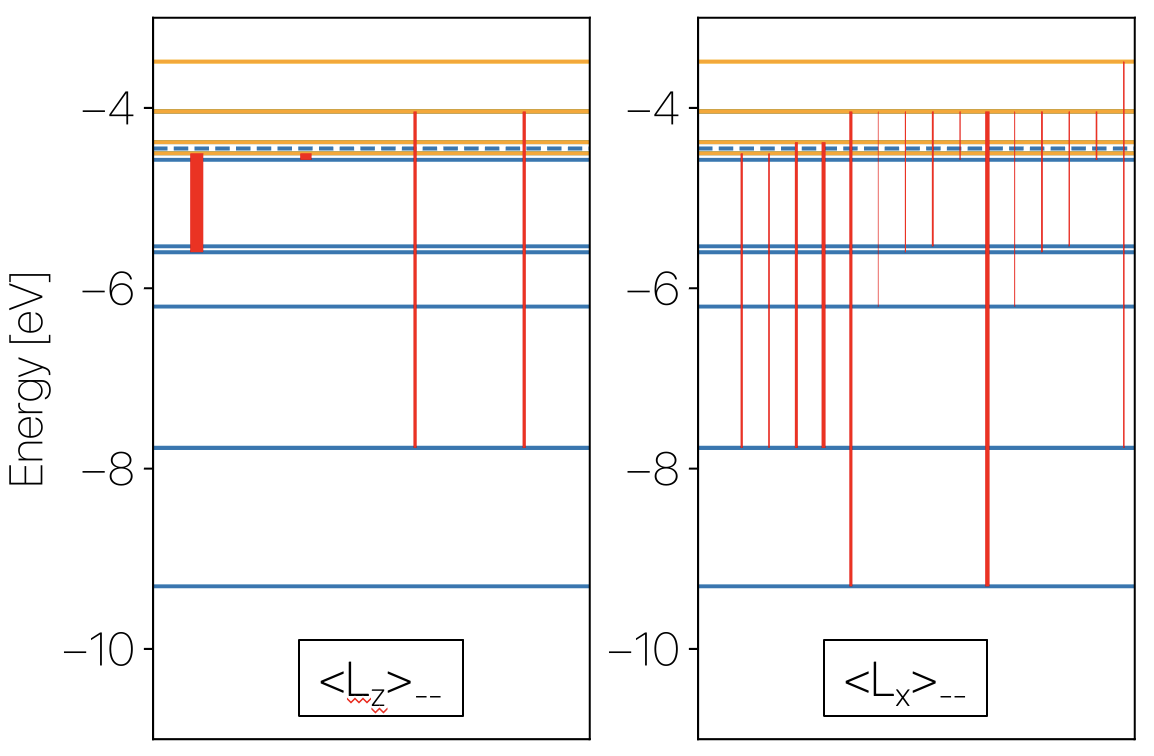
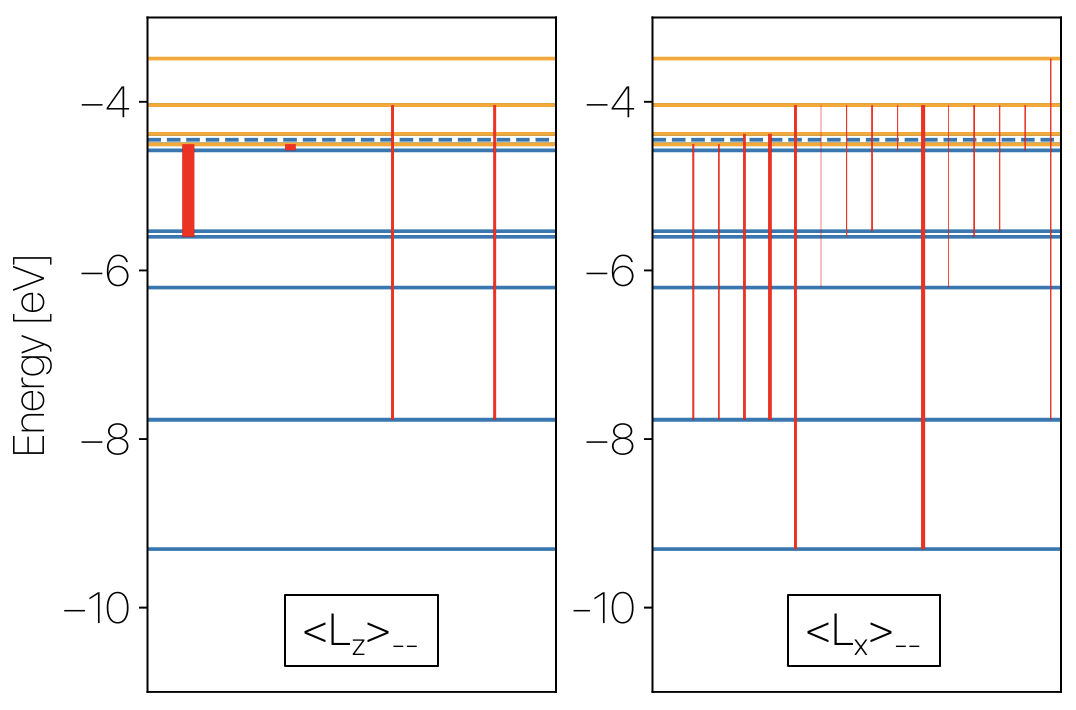
update 2023-01-12-MAE_decompose

Changed region(s): [[0.552, 0.031, 1.0, 0.9915], [0.0, 0.0, 0.5214, 0.9915], [0.6134, 0.0, 0.9814, 0.031]]

diff --git a/_posts/2023-01-12-MAE_decompose.md b/_posts/2023-01-12-MAE_decompose.md
@@ -72,7 +72,9 @@ where:
 $$
 \begin{aligned}
 E_{--} = - \lambda^2 \sum_{o^-,u^-} \frac{\braket{o^-|\hat \sigma \cdot \hat L|u^-}}{\epsilon_{u^-}-\epsilon_{o^-}}\\
+E_{++} = - \lambda^2 \sum_{o^+,u^+} \frac{\braket{o^+|\hat \sigma \cdot \hat L|u^+}}{\epsilon_{u^+}-\epsilon_{o^+}}\\
 E_{+-} = - \lambda^2 \sum_{o^+,u^-} \frac{\braket{o^+|\hat \sigma \cdot \hat L|u^-}}{\epsilon_{u^-}-\epsilon_{o^+}}\\
+E_{-+} = - \lambda^2 \sum_{o^-,u^+} \frac{\braket{o^-|\hat \sigma \cdot \hat L|u^+}}{\epsilon_{u^+}-\epsilon_{o^-}}\\
 \end{aligned}
 $$
 
@@ -81,7 +83,7 @@ Depending on the magnetization axis, assuming that there are no mixing in the or
 - magnetization along x axis: $(1, -1)$
 - magnetization along z axis: $(0, 1)$
 
-Inserting these into $\braket{o\vert\hat{\sigma}\hat{L}\vert u}$, we have:
+For example, inserting these into $\braket{o^-\vert\hat{\sigma}\hat{L}\vert u^-}$, we have:
 
 $$
 \begin{aligned}
@@ -102,13 +104,13 @@ $$
 \mathrm{MAE}_{+-} = E_{+-}^x - E_{+-}^z = - \lambda^2 \sum_{o^+,u^-} \frac{|\braket{o^+|L_z|u^-}|^2-|\braket{o^+|L_x|u^-}|^2}{\epsilon_{u^-}-\epsilon_{o^+}}
 $$
 
-Combining all of these equations together we get the total MAE as:
+Combining up-up, up-down, down-down and down-up temrs together, we get the total MAE as:
 
 $$
 \mathrm{MAE} = \lambda^2 (2\delta_{\alpha,\beta}-1) \sum_{o^{\alpha},u^{\beta}} \frac{|\braket{o^{\alpha}|L_z|u^{\beta}}|^2-|\braket{o^{\alpha}|L_x|u^{\beta}}|^2}{\epsilon_{u^{\beta}}-\epsilon_{o^{\alpha}}}
 $$
 
-Note that, up to now, we are trating $\lambda$ as a parameter. However, in reaility, it needs to be calculated as $\braket{\phi\vert\lambda(r)\vert\phi}$ where $\phi$ is the radial part of the atomic wavefunctions, which is different for different $l$ quantum numbers. In VASP, this is calculated within the PAW sphere using the AE partial waves in `relativistic.F`. If we really want to be percise, we can extract this info from VASP.
+Note that, up to now, we are trating $\lambda$ as a parameter. However, in reaility, it needs to be calculated as $\braket{\phi\vert\lambda(r)\vert\phi}$ where $\phi$ is the radial part of the atomic wavefunctions, which is different for different $l$ quantum numbers. In VASP, this is calculated within the PAW sphere using the all-electron partial waves in `relativistic.F`. If we really want to be percise, we can extract the exact values from VASP.
 
 ---
 
@@ -116,7 +118,7 @@ Using [:link: wanSOC](https://github.com/Chengcheng-Xiao/wanSOC) package, I've r
 
 ![]({{site.baseurl}}/assets/img/post_img/2023-01-12-img1.png){:height="100%" width="100%" .center}
 
-Subtle differences are caused by VASP's periodic conditions that breaks the rotational invariancce of the dxy/dx^2-y^2 orbitals.
+Subtle differences are caused by VASP's periodic conditions that breaks the rotational invariancce of the $d_{xy}$/$d_{x^2-y^2}$ orbitals.
 
 The code that I wrote to do this can be downloaded from [:file_folder: 2023-01-12-MAE_decomposition.tar.gz]({{site.baseurl}}/assets/other/2023-01-12-MAE_decomposition.tar.gz). 
 
